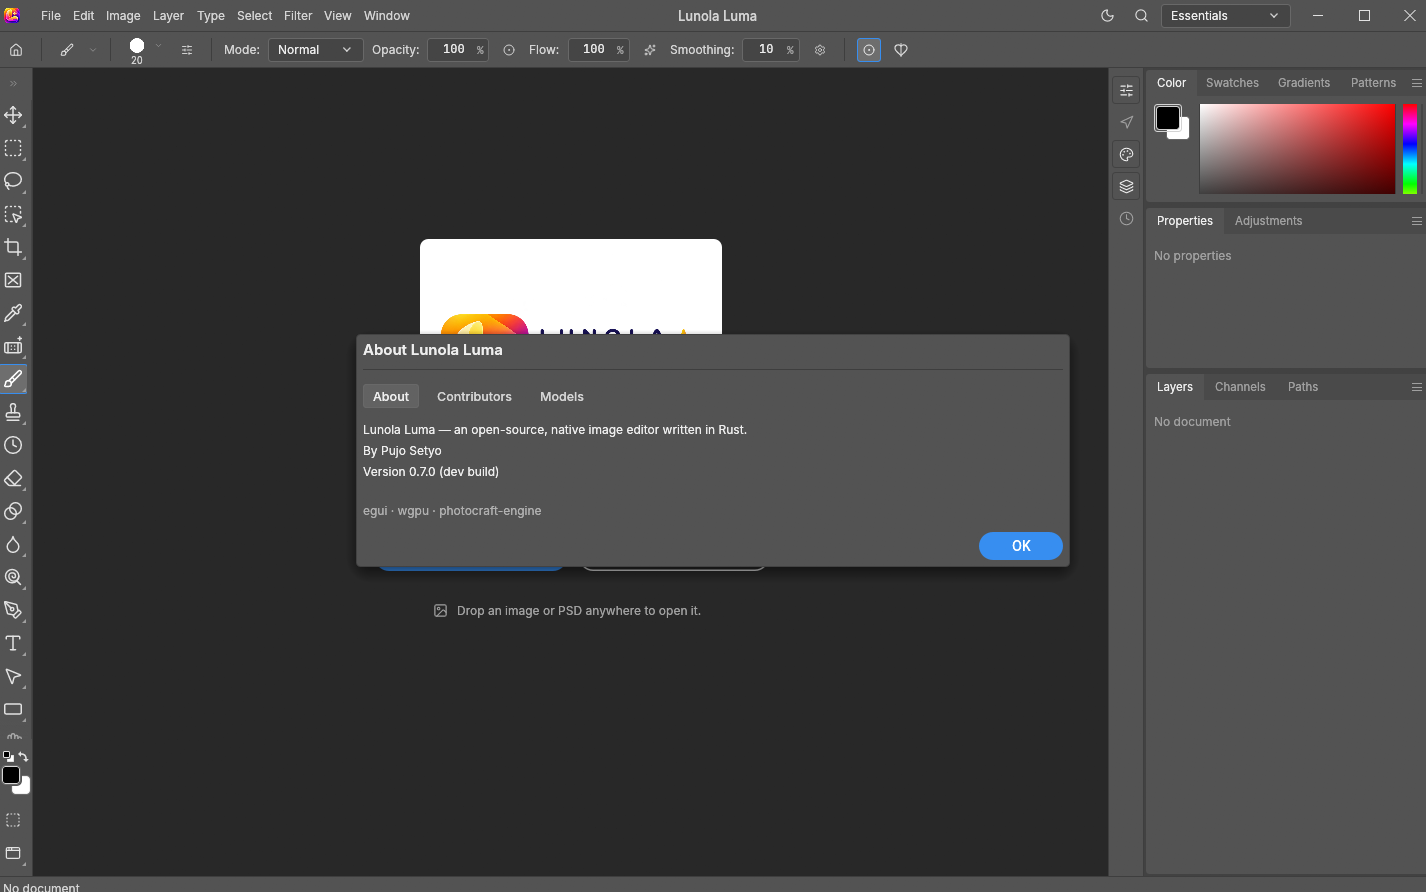
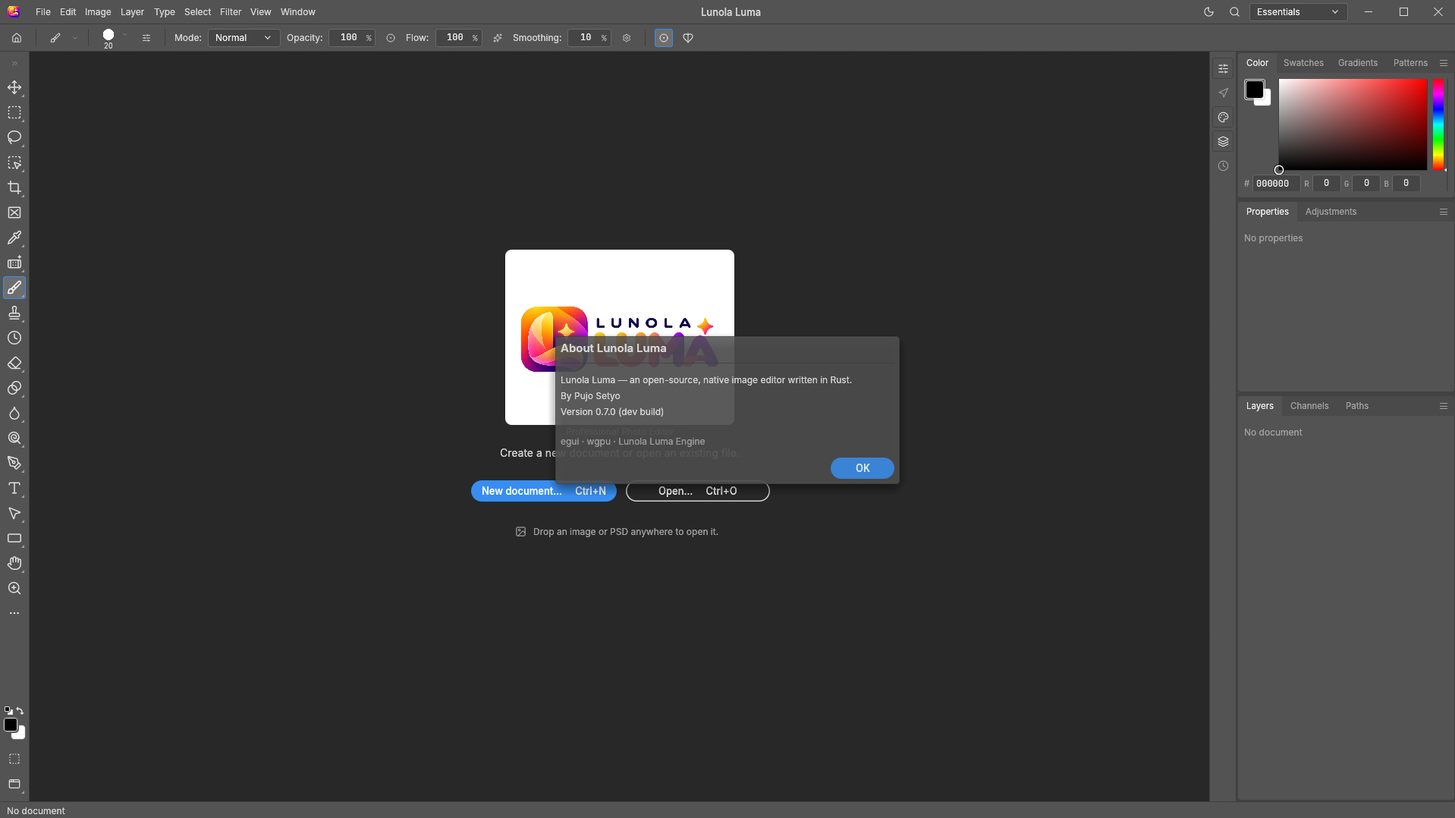
chore(branding): finish visible Lunola Luma labels

diff --git a/crates/ui-egui/src/dialogs.rs b/crates/ui-egui/src/dialogs.rs
@@ -160,15 +160,8 @@ pub fn show(app: &mut PhotocraftApp, ctx: &egui::Context) {
             if d.kind == DialogKind::NewDocument {
                 ui.set_min_width(800.0);
             }
-            // The About window: room for the contributor table, the same width on every tab.
-            let about_tabs = d.kind == DialogKind::About && d.fields.get("systemInfo").and_then(Value::as_bool) != Some(true);
-            if about_tabs {
-                ui.set_min_width(700.0);
-            }
             ui.set_max_width(wide.unwrap_or(if d.kind == DialogKind::NewDocument {
                 800.0
-            } else if about_tabs {
-                700.0
             } else if d.kind == DialogKind::LayerStyle || d.fields.contains_key("__export") || crate::color_picker_ui::owns(&d.fields) {
                 600.0
             } else {
@@ -208,22 +201,7 @@ pub fn show(app: &mut PhotocraftApp, ctx: &egui::Context) {
                     }
                 }
                 DialogKind::About => {
-                    // Tabs About · Contributors · Models (craftrules standards/contributors.md). The
-                    // tab is a dialog field, so automation can switch it with `ui.dialog.set`.
-                    let tab = about_tab(&fields);
-                    let mut chosen = tab;
-                    ui.horizontal(|ui| {
-                        for (key, label) in [("about", tl!("About")), ("contributors", tl!("Contributors")), ("models", tl!("Models"))] {
-                            if crate::widgets::pill_tab(ui, label, tab == key).clicked() {
-                                chosen = key;
-                            }
-                        }
-                    });
-                    if chosen != tab {
-                        fields.insert("tab".into(), json!(chosen));
-                    }
-                    ui.add_space(8.0);
-                    about_tab_body(app, ui, chosen);
+                    about_body(ui);
                 }
                 DialogKind::Command if crate::guide_layout_ui::owns(&fields) => outcome = crate::guide_layout_ui::body(app, ui, &mut fields, interactive),
                 DialogKind::Command if crate::fill_ui::owns(&fields) => crate::fill_ui::body(app, ui, &mut fields),
@@ -397,28 +375,13 @@ pub fn show(app: &mut PhotocraftApp, ctx: &egui::Context) {
     ctx.data_mut(|m| m.insert_temp(egui::Id::new(RECTS), shown));
 }
 
-/// The About window's tabs, as stored in its `tab` field.
-pub const ABOUT_TABS: [&str; 3] = ["about", "contributors", "models"];
-
-/// The About tab to show: the `tab` field when it names one, otherwise "about".
-fn about_tab(fields: &serde_json::Map<String, Value>) -> &'static str {
-    let want = fields.get("tab").and_then(Value::as_str).unwrap_or("");
-    ABOUT_TABS.iter().copied().find(|t| *t == want).unwrap_or("about")
-}
-
-/// One About tab's contents: the credits lists, or the product blurb and links.
-fn about_tab_body(app: &mut PhotocraftApp, ui: &mut egui::Ui, tab: &str) {
-    match tab {
-        "contributors" => crate::credits::contributors_ui(app, ui),
-        "models" => crate::credits::models_ui(ui),
-        _ => {
-            ui.label(tl!("Lunola Luma — an open-source, native image editor written in Rust."));
-            ui.label(egui::RichText::new("By Pujo Setyo").strong());
-            ui.label(crate::i18n::fmt(tl!("Version {version}"), &[("version", &photocraft_engine::build_info::long_version())]));
-            ui.add_space(18.0);
-            ui.weak("egui · wgpu · photocraft-engine");
-        }
-    }
+/// Product identity and byline shown in the About dialog.
+fn about_body(ui: &mut egui::Ui) {
+    ui.label(tl!("Lunola Luma — an open-source, native image editor written in Rust."));
+    ui.label(egui::RichText::new("By Pujo Setyo").strong());
+    ui.label(crate::i18n::fmt(tl!("Version {version}"), &[("version", &photocraft_engine::build_info::long_version())]));
+    ui.add_space(18.0);
+    ui.weak("egui · wgpu · Lunola Luma Engine");
 }
 
 /// The dialog title as shown: [`title`] in the UI language.

diff --git a/crates/ui-egui/src/credits_tests.rs b/crates/ui-egui/src/credits_tests.rs
@@ -200,39 +200,6 @@ fn the_models_table_lines_counts_up_on_the_right_under_a_rule_of_headers() {
     assert!(h.query_all_by_label("<1%").count() == 5, "small shares read <1%");
 }
 
-/// The About window on `tab` (and the Contributors table when `table`): the top of its title and of
-/// its OK button, and the bottom of the lowest thing between them.
-fn about_window(tab: &str, table: bool) -> (f32, f32, f32) {
-    let mut h = Harness::builder().with_size(vec2(1440.0, 900.0)).with_max_steps(64).build_eframe(|cc| {
-        crate::PhotocraftApp::setup_context(&cc.egui_ctx, Default::default());
-        crate::PhotocraftApp::new(photocraft_engine::Session::new(), crate::Services::default())
-    });
-    let mut fields = serde_json::Map::new();
-    fields.insert("tab".into(), serde_json::json!(tab));
-    h.state_mut().ui.open_dialog(crate::state::DialogKind::About, fields);
-    h.ctx.data_mut(|d| d.insert_temp(egui::Id::new("credits_view"), View { table, ..View::default() }));
-    h.run_steps(6);
-    let ok = h.query_all_by_role(Role::Button).find(|n| n.accesskit_node().label().as_deref() == Some("OK")).map(|n| n.rect()).expect("the OK button");
-    // The dialog's contents: everything between its title and the OK button.
-    let title = h.query_all_by_label("About Lunola Luma").map(|n| n.rect()).find(|r| r.top() < ok.top()).expect("the dialog title");
-    let lowest = h
-        .query_all(egui_kittest::kittest::by().predicate(|n| n.bounding_box().is_some()))
-        .map(|n| n.rect())
-        .filter(|r| r.top() > title.bottom() && r.bottom() < ok.top() && r.left() >= title.left() - 1.0 && r.right() <= ok.right() + 1.0 && r.height() < 100.0)
-        .map(|r| r.bottom())
-        .fold(f32::MIN, f32::max);
-    (title.top(), ok.top(), lowest)
-}
-
-#[test]
-fn about_and_models_end_where_their_content_does() {
-    for tab in ["about", "models"] {
-        let (_, ok, lowest) = about_window(tab, false);
-        assert!(lowest > f32::MIN, "{tab}: nothing above OK");
-        assert!(ok - lowest < 40.0, "{tab}: {} pt of blank space above OK", ok - lowest);
-    }
-}
-
 #[test]
 fn about_page_credits_pujo_setyo() {
     let mut h = Harness::builder().with_size(vec2(720.0, 520.0)).with_max_steps(64).build_eframe(|cc| {
@@ -242,15 +209,8 @@ fn about_page_credits_pujo_setyo() {
     h.state_mut().ui.open_dialog(crate::state::DialogKind::About, serde_json::Map::new());
     h.run_steps(6);
     assert_eq!(h.query_all_by_label("By Pujo Setyo").count(), 1);
-}
-
-#[test]
-fn switching_the_contributors_view_keeps_the_window_size() {
-    // A new window is placed by its first frame, so compare the height, title to OK.
-    let height = |table| {
-        let (title, ok, _) = about_window("contributors", table);
-        ok - title
-    };
-    let (bag, table) = (height(false), height(true));
-    assert!((bag - table).abs() < 0.5, "{bag} pt tall on the grab bag, {table} pt on the table");
+    assert_eq!(h.query_all_by_label("Contributors").count(), 0);
+    assert_eq!(h.query_all_by_label("Models").count(), 0);
+    assert_eq!(h.query_all_by_label("egui · wgpu · photocraft-engine").count(), 0);
+    assert_eq!(h.query_all_by_label("egui · wgpu · Lunola Luma Engine").count(), 1);
 }

diff --git a/apps/photocraft/src/main.rs b/apps/photocraft/src/main.rs
@@ -197,7 +197,7 @@ fn main() -> eframe::Result {
             Some("--safe-gpu") => safe_gpu = true,
             Some("--in-window-menus") => in_window_menus = true,
             Some("--version") => {
-                println!("photocraft {}", photocraft_engine::build_info::long_version());
+                println!("Lunola Luma {}", photocraft_engine::build_info::long_version());
                 return Ok(());
             }
             // Old macOS passes a process serial number when launched from Finder.
@@ -212,7 +212,7 @@ fn main() -> eframe::Result {
     // Exit status 2 is the usual command-line usage error, so a launcher sees the failure.
     if let Some(code) = control_args_exit_code(&control_arg_errors) {
         for error in &control_arg_errors {
-            eprintln!("photocraft: {error}");
+            eprintln!("Lunola Luma: {error}");
         }
         std::process::exit(code);
     }
@@ -240,7 +240,7 @@ fn main() -> eframe::Result {
         && std::env::var_os("DISPLAY").is_some_and(|d| !d.is_empty())
         && linux_libs::available(linux_libs::DisplaySession::X11)
     {
-        eprintln!("photocraft: opening the window through Xwayland (Preferences › Performance › Linux display server)");
+        eprintln!("Lunola Luma: opening the window through Xwayland (Preferences › Performance › Linux display server)");
         linux_libs::DisplaySession::X11
     } else {
         session
@@ -259,21 +259,21 @@ fn main() -> eframe::Result {
         let token = match photocraft_automation::security::server_token(supplied.as_deref(), token_file.as_deref()) {
             Ok(token) => token,
             Err(e) => {
-                eprintln!("photocraft: cannot configure control authentication: {e}");
+                eprintln!("Lunola Luma: cannot configure control authentication: {e}");
                 std::process::exit(2);
             }
         };
         if let Some(path) = token_file {
-            eprintln!("photocraft: control token file: {}", path.display());
+            eprintln!("Lunola Luma: control token file: {}", path.display());
         } else if supplied.is_none() {
-            eprintln!("photocraft: control token: {token}");
+            eprintln!("Lunola Luma: control token: {token}");
         } else {
-            eprintln!("photocraft: using supplied control token");
+            eprintln!("Lunola Luma: using supplied control token");
         }
         let workspace = match photocraft_automation::AuthorizedWorkspace::new(automation_read_root.as_deref(), automation_write_root.as_deref()) {
             Ok(workspace) => workspace,
             Err(error) => {
-                eprintln!("photocraft: cannot configure automation workspace: {error}");
+                eprintln!("Lunola Luma: cannot configure automation workspace: {error}");
                 std::process::exit(2);
             }
         };

diff --git a/apps/photocraft-cli/src/lib.rs b/apps/photocraft-cli/src/lib.rs
@@ -12,7 +12,7 @@ use photocraft_io::ExportOptions;
 use serde_json::{Value, json};
 
 pub const USAGE: &str = "\
-photocraft-cli: headless Photocraft
+Lunola Luma CLI: headless image processing
 
 USAGE:
   photocraft-cli convert <in> <out> [--format <ext>] [--quality <1-100>] [--tiff-layers] [--tga-bits <24|32>]
@@ -40,7 +40,7 @@ USAGE:
       List the engine command registry.
   photocraft-cli mcp [--bridge <127.0.0.1:port>] [--control-token <64-hex> | --control-token-file <path>]
       [--automation-read-root <dir>] [--automation-write-root <dir>]
-      Run the MCP server on stdio (headless engine, or bridge to a running `photocraft --control <port>`).
+      Run the MCP server on stdio (headless engine, or bridge to a running Lunola Luma desktop session).
   photocraft-cli serve [--port <port>] [--control-token <64-hex> | --control-token-file <path>]
       [--automation-read-root <dir>] [--automation-write-root <dir>]
       Keep one headless session open and answer JSON lines ({\"id\",\"method\",\"params\"}) on stdio,
@@ -170,7 +170,7 @@ pub fn run(args: &[String], out: &mut dyn Write, err: &mut dyn Write) -> i32 {
             return 0;
         }
         "--version" | "version" => {
-            let _ = writeln!(out, "photocraft-cli {}", photocraft_engine::build_info::long_version());
+            let _ = writeln!(out, "Lunola Luma CLI {}", photocraft_engine::build_info::long_version());
             return 0;
         }
         _ => {}
@@ -517,12 +517,12 @@ fn serve(a: &Args, err: &mut dyn Write) -> R {
             let (supplied, token_file) = security::token_inputs(a.get("--control-token").map(str::to_owned), a.get("--control-token-file").map(PathBuf::from));
             let token = security::server_token(supplied.as_deref(), token_file.as_deref()).map_err(|e| e.to_string())?;
             if let Some(path) = &token_file {
-                let _ = writeln!(err, "photocraft-cli control token file: {}", path.display());
+                let _ = writeln!(err, "Lunola Luma CLI control token file: {}", path.display());
             } else if supplied.is_none() {
-                let _ = writeln!(err, "photocraft-cli control token: {token}");
+                let _ = writeln!(err, "Lunola Luma CLI control token: {token}");
             }
             photocraft_automation::rpc::serve_tcp(&addr, h, token, |local| {
-                let _ = writeln!(err, "photocraft-cli serving on {local}");
+                let _ = writeln!(err, "Lunola Luma CLI serving on {local}");
             })
             .map_err(|e| e.to_string())
         }

diff --git a/crates/ui-egui/src/notices.rs b/crates/ui-egui/src/notices.rs
@@ -79,10 +79,8 @@ pub fn wayland_file_drop_guidance(app: &mut PhotocraftApp) {
         "Native file drag-and-drop is not supported on Wayland yet. Use File › Open, or copy the image in your file manager and paste it with {paste}."
             .to_owned(),
     ];
-    let mut args = vec![("paste".to_owned(), paste_hint(app))];
-    if let Some(command) = &app.services.xwayland_command {
-        lines.push("To drop files, start Lunola Luma under XWayland: `{command}`".to_owned());
-        args.push(("command".to_owned(), command.clone()));
+    let args = vec![("paste".to_owned(), paste_hint(app))];
+    if app.services.xwayland_command.is_some() {
         lines.push("Or set Preferences › Performance › Linux display server to X11: Lunola Luma then always starts under XWayland.".to_owned());
     }
     let id = post(app, "Native file drag-and-drop is unavailable", lines, false, Some(WAYLAND_FILE_DROP_DISMISSED));
@@ -290,9 +288,10 @@ mod tests {
         // Pasting a copied file works on Wayland (#338), so the notice offers it.
         let paste = paste_hint(&app);
         assert!(guidance.contains(&format!("paste it with {paste}")), "{guidance}");
-        // The relaunch command is the one for this install (an AppImage here), not a guess.
-        assert!(guidance.contains("under XWayland: `WAYLAND_DISPLAY= '/apps/Photo Craft.AppImage'`"), "{guidance}");
+        // Point to the X11 preference rather than displaying a PhotoCraft command to users.
         assert!(guidance.contains("Linux display server to X11"), "{guidance}");
+        assert!(guidance.contains("Lunola Luma then always starts under XWayland"), "{guidance}");
+        assert!(!guidance.contains("photocraft"), "{guidance}");
         assert_eq!(app.ui.notices[0].dismiss_pref.as_deref(), Some(WAYLAND_FILE_DROP_DISMISSED));
         for i in 0..MAX_NOTICES {
             post(&mut app, format!("Transient {i}"), Vec::new(), false, None);

diff --git a/crates/ui-egui/src/credits.rs b/crates/ui-egui/src/credits.rs
@@ -1,7 +1,5 @@
-//! The About window's credits: every contributor (GitHub login always; display and real names only
-//! with recorded consent) and the AI models that helped. The tables are baked into the binary by
-//! build.rs from contributors/contributors.json (craftrules standards/contributors.md); nothing is
-//! read at run time. UI strings go through `tl!` (column abbreviations like `+LOC` stay as they are).
+//! Contributor and AI-model metadata plus rendering helpers, generated from the repository's
+//! attribution data. The About dialog presents only Lunola Luma's product identity and byline.
 
 use std::cmp::Ordering;
 
@@ -247,7 +245,7 @@ const SORT_ARROW_W: f32 = 12.0;
 const CELL_PAD: f32 = 6.0;
 const NAME_MIN_W: f32 = 110.0;
 
-/// About ▸ Contributors: a name toggle, a sort, and the list as a grab bag or a table.
+/// Render the generated contributor credits as a name toggle and list.
 pub fn contributors_ui(app: &mut PhotocraftApp, ui: &mut egui::Ui) {
     contributors_in(app, ui, CONTRIBUTORS, TOTAL_COMMITS);
 }
@@ -483,7 +481,7 @@ fn header_cell(ui: &mut egui::Ui, t: &crate::theme::Tokens, label: &str, numeric
     resp
 }
 
-/// About ▸ Models: AI models credited in Co-Authored-By trailers.
+/// Render AI model metadata derived from Co-Authored-By trailers.
 pub fn models_ui(ui: &mut egui::Ui) {
     models_in(ui, MODELS, TOTAL_COMMITS);
 }

diff --git a/crates/ui-egui/build.rs b/crates/ui-egui/build.rs
@@ -19,8 +19,10 @@ use serde_json::Value;
 
 fn main() {
     let dir = std::path::Path::new(env!("CARGO_MANIFEST_DIR")).join("../../contributors");
-    let json = read(&dir.join("contributors.json"), "the About window shows no contributors", |t| serde_json::from_str::<Value>(t).map_err(|e| e.to_string()))
-        .unwrap_or(Value::Null);
+    let json = read(&dir.join("contributors.json"), "the generated credits dataset contains no contributors", |t| {
+        serde_json::from_str::<Value>(t).map_err(|e| e.to_string())
+    })
+    .unwrap_or(Value::Null);
     let people =
         read(&dir.join("people.toml"), "contributors are shown by username only", |t| t.parse::<toml::Table>().map_err(|e| e.to_string())).unwrap_or_default();
     let out = std::path::PathBuf::from(std::env::var_os("OUT_DIR").unwrap_or_default()).join("credits.rs");

diff --git a/apps/photocraft/src/control_server.rs b/apps/photocraft/src/control_server.rs
@@ -20,11 +20,11 @@ pub fn start(port: u16, token: String, ctx: egui::Context) -> Receiver<ControlRe
     let listener = match TcpListener::bind(("127.0.0.1", port)) {
         Ok(l) => l,
         Err(e) => {
-            eprintln!("photocraft: control server failed to bind 127.0.0.1:{port}: {e}");
+            eprintln!("Lunola Luma: control server failed to bind 127.0.0.1:{port}: {e}");
             return rx;
         }
     };
-    eprintln!("photocraft: control server listening on 127.0.0.1:{port}");
+    eprintln!("Lunola Luma: control server listening on 127.0.0.1:{port}");
     std::thread::spawn(move || {
         let limiter = ConnectionLimiter::new(MAX_CONNECTIONS);
         let token = Arc::new(token);

diff --git a/apps/photocraft/src/linux_libs.rs b/apps/photocraft/src/linux_libs.rs
@@ -215,7 +215,7 @@ pub fn missing_message(session: DisplaySession, missing: &[AnyOf], distro: Distr
             packages.push(p);
         }
     }
-    let mut msg = format!("photocraft: cannot start: the {session_name} session needs libraries that are not installed: {}.\n", names.join(", "));
+    let mut msg = format!("Lunola Luma: cannot start: the {session_name} session needs libraries that are not installed: {}.\n", names.join(", "));
     msg.push_str(&format!("Install them with:\n  {}\n", install_command(&packages, distro)));
     if distro == Distro::Unknown {
         let fedora: Vec<&str> = missing.iter().filter_map(|any| any.first()).map(|l| l.fedora).collect();

diff --git a/apps/photocraft/src/tablet.rs b/apps/photocraft/src/tablet.rs
@@ -46,7 +46,7 @@ pub fn display_session() -> DisplaySession {
     let pen = || std::fs::read_to_string("/proc/bus/input/devices").is_ok_and(|d| has_pen(&d));
     let x11_libs = || crate::linux_libs::available(DisplaySession::X11);
     if pen_needs_xwayland(session, var, pen, x11_libs) {
-        eprintln!("photocraft: pen found; opening the window through Xwayland, where the pen works (PHOTOCRAFT_NATIVE_WAYLAND=1 keeps Wayland)");
+        eprintln!("Lunola Luma: pen found; opening the window through Xwayland, where the pen works (PHOTOCRAFT_NATIVE_WAYLAND=1 keeps Wayland)");
         return DisplaySession::X11;
     }
     session

diff --git a/apps/photocraft/src/app_dirs.rs b/apps/photocraft/src/app_dirs.rs
@@ -48,7 +48,7 @@ pub fn current() -> &'static DataDir {
         let d = resolve(|k| std::env::var_os(k), exe.as_deref().and_then(Path::parent));
         if let Some(w) = &d.warning {
             log::warn!("{w}");
-            eprintln!("photocraft: {w}");
+            eprintln!("Lunola Luma: {w}");
         }
         log::info!("settings directory ({:?}): {:?}", d.mode, d.dir);
         d

diff --git a/docs/windows-smoke-test.md b/docs/windows-smoke-test.md
@@ -6,16 +6,18 @@ This record describes a real local build and GUI smoke test, not a signed instal
 
 - **Toolchain:** Windows 10; `cargo 1.96.1`, `rustc 1.96.1`.
 - **Formatting:** `cargo fmt --all --check` passed.
-- **Build:** `CARGO_INCREMENTAL=0 cargo build -p photocraft -p photocraft-cli` passed after the branding, Help-menu, and About-byline changes.
+- **Build:** `CARGO_INCREMENTAL=0 cargo build -j 1 -p photocraft -p photocraft-cli` passed after the final visible-brand wording changes.
 - **Windows icon references:** `packaging/windows/check-icons.ps1` passed. The freshly generated app and CLI resource scripts contain Lunola Luma product names, LUNOLA company metadata, and PhotoCraft-compatible executable filenames.
-- **Launch and menu:** launched the fresh desktop build with `PHOTOCRAFT_CPU_CANVAS=1`; the window title and supplied LUNOLA/LUMA lockup rendered. The top-level menu bar contains File, Edit, Image, Layer, Type, Select, Filter, View and Window—no Help. The File menu contains **About Lunola Luma**; its dialog shows the **By Pujo Setyo** byline.
-- **About:** the dialog opened and displayed Lunola Luma and `0.7.0 (dev build)`.
+- **Launch and menu:** launched the fresh desktop build with `PHOTOCRAFT_CPU_CANVAS=1`; the window title and supplied LUNOLA/LUMA lockup rendered. The top-level menu bar contains File, Edit, Image, Layer, Type, Select, Filter, View and Window—no Help. The File menu contains **About Lunola Luma**; its dialog shows the **By Pujo Setyo** byline and no Contributors or Models tabs.
+- **About:** the fresh dialog shows the product description, **By Pujo Setyo**, version `0.7.0 (dev build)`, and `egui · wgpu · Lunola Luma Engine`; Contributors and Models tabs are absent.
+- **Version/help text:** `photocraft.exe --version` prints `Lunola Luma 0.7.0 (dev build)`; `photocraft-cli.exe --version` prints `Lunola Luma CLI 0.7.0 (dev build)`. CLI help is branded Lunola Luma; the legacy `photocraft-cli` executable command remains for compatibility.
 - **Open/save/export:** opened the synthetic 96×64 PNG fixture in the desktop app and saved it. Then the Windows CLI converted PNG → `.pcraft` → WebP; `photocraft-cli info` reopened both outputs and reported 96×64, 8-bit RGB, with no warnings.
-- **Metadata syntax:** Python XML parsing passed for the WiX source, Linux AppStream template, and MIME metadata. `git diff --check` passed at the time of this run.
+- **Wayland guidance tests:** all 4 targeted `wayland_guidance_` tests passed after replacing the old launch-command text with translated X11 preference guidance.
+- **Metadata syntax:** Python XML parsing passed for the WiX source, Linux AppStream template, and MIME metadata. `git diff --check` passed after the final changes.
 
 ## Test-suite result and baseline
 
-`CARGO_INCREMENTAL=0 cargo test -p photocraft-ui-egui --lib --quiet` ran 2,197 tests: **2,186 passed, 1 failed, 10 ignored**. The remaining failure is `i18n::tests::bundled_catalogs_are_consistent` because `cs.tsv` contains duplicate `"Tool"` entries. This same Czech duplicate-key failure was present on the recorded upstream baseline (`c20b81b25168057e9cbffa2f45c36ec02dacf756`), where the suite had 2,184 passes, 2 failures, and 10 ignored. The separate baseline jobs-status failure no longer reproduces. A preceding test-link attempt after an interrupted command failed with MSVC LNK1120 unresolved symbols; disabling incremental compilation allowed the targeted byline test and full UI suite to build and run.
+`CARGO_INCREMENTAL=0 cargo test -p photocraft-ui-egui --lib --quiet` ran 2,195 tests: **2,184 passed, 1 failed, 10 ignored**. The remaining failure is `i18n::tests::bundled_catalogs_are_consistent` because `cs.tsv` contains duplicate `"Tool"` entries. This same Czech duplicate-key failure was present on the recorded upstream baseline (`c20b81b25168057e9cbffa2f45c36ec02dacf756`), where the suite had 2,184 passes, 2 failures, and 10 ignored. The separate baseline jobs-status failure no longer reproduces. A preceding test-link attempt after an interrupted command failed with MSVC LNK1120 unresolved symbols; disabling incremental compilation allowed the targeted byline test and full UI suite to build and run.
 
 ## Not verified
 
